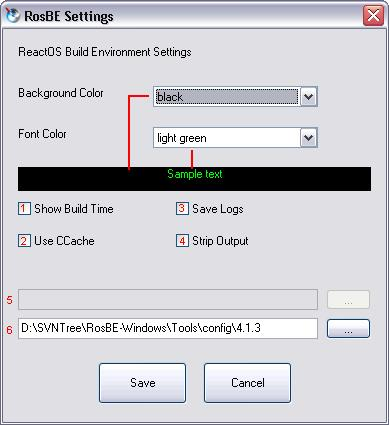
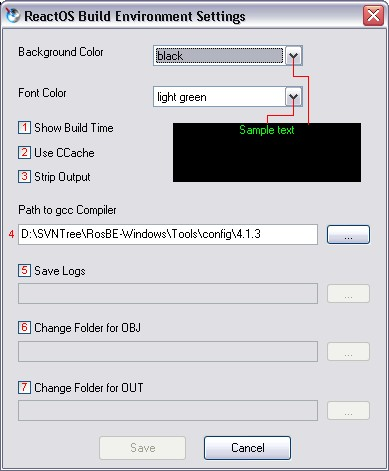
Update the RosBE Configurator Page to the new Configurator App.

diff --git a/tools/RosBE-Windows/Documentation/files/options.html b/tools/RosBE-Windows/Documentation/files/options.html
@@ -3,24 +3,46 @@
 <head>
 </head>
 <body>
-RosBE has a small configuration application, which lets you control
-many aspects of RosBE's look and feel. Additionally you can change
-settings which affect the build process.<br>
-<br>
-<div style="text-align: center;"><img
- style="width: 389px; height: 425px;" alt="RosBE Configurator"
- src="options.jpg"><br>
-<div style="text-align: left;"><br>
+The RosBE Configurator is the Main app to change more advanced Settings
+for Look and Feel and in the Build Process.<br>
 As you can see, it is possible to edit the font and background color
 with RosBE Configurator. Additionally you can check the look in the
 Preview below.<br>
-Additionally you can Enable/Disable many Things with it. So you can
-switch on/off showing the time the build process needed. A new feature
-is the usage of ccache which can speed up the build process for ~5-10%
-for a cost of ~1,5 GB of Cache size. You can switch off/on the logging
-and stripping the Output Files, too. Stripping might help if you want
+<br>
+<div style="text-align: center;"><img
+ style="width: 389px; height: 471px;" alt="Configurator"
+ src="options.jpg"><br>
+<div style="text-align: left;"><br>
+<br>
+<span style="font-weight: bold; text-decoration: underline;">1.</span>
+You can
+switch on/off showing the time the build process needed.<br>
+<span style="font-weight: bold; text-decoration: underline;">2.</span>
+A new feature
+in Version 1.0 is the usage of CCache which can speed up the build
+process for ~5-10%
+for a cost of ~1,5 GB of Cache size (BEWARE: First Build Process is
+waay slower due to Cache building process. The first sped up build
+process will be the second one).<br>
+<span style="font-weight: bold; text-decoration: underline;">3.</span>
+Stripped Output might help if you want
 to use ReactOS on a PC with less than 48 MB RAM, because stripped apps
-use less RAM.<br>
+use less RAM and are smaller.<br>
+<span style="font-weight: bold; text-decoration: underline;">4.</span>
+Here you can set another GCC Compiler as the Active one in RosBE.<br>
+<span style="font-weight: bold; text-decoration: underline;">5.</span>
+You can switch off/on the logging and/or change te Path where the logs
+will be saved to.<br>
+<span style="font-weight: bold; text-decoration: underline;">6.</span>
+and <span style="font-weight: bold; text-decoration: underline;">7.</span>
+are mainly made for Speed up the Build Process. By Changing the Output
+to a RAMDisk you can Speed up the building for about 10-15%. But it
+will cost VERY MUCH RAM. The fastest way would be to save the Source
+(~300MB), the LOGs (some KB), the Object Files (!!!~2.3 GB!!!) and the
+Output (~200 MB) to RAM Additionally you need some MB as Temp File
+Buffer, too. So a maximum speedup would cost ~2.8 GB RAM. If you have
+so much RAM, be happy and install a RAMDisk on it for building.
+Otherwise you might need to keep OBJ on HDD.<br>
 </div>
 </div>
 </body>
